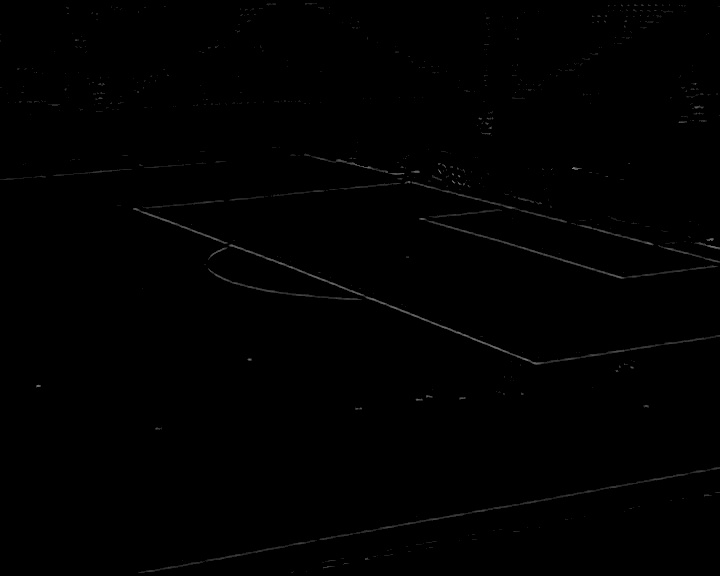
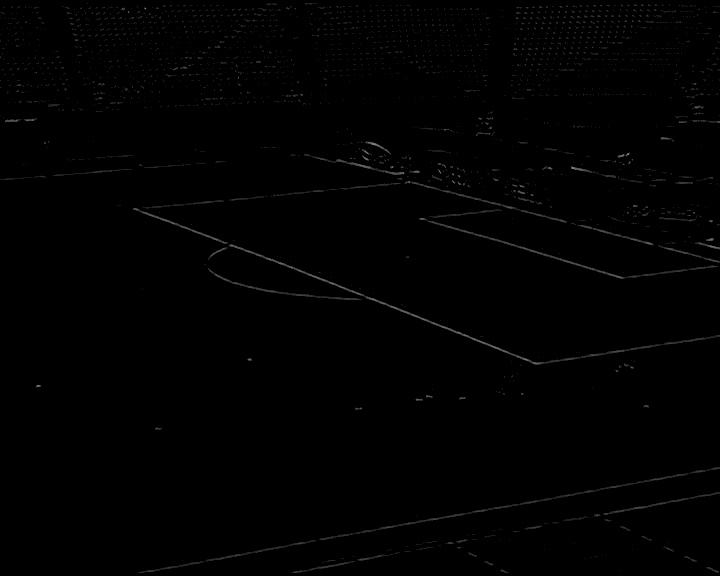
rename images!

diff --git a/src/utils/line_filter.py b/src/utils/line_filter.py
@@ -71,7 +71,6 @@ def filter_for(blue_image, keyer, width=3, orientation='h'):
 				temp = min(temp1, temp2)
 				if temp < 20:
 					temp = 0
-				# temp = min(blue_image[i,j] - blue_image[i-i_shift, j-j_shift], blue_image[i,j] - blue_image[i+i_shift, j+j_shift])
 				result[i,j] = temp
 
 	return result

diff --git a/README.md b/README.md
@@ -27,7 +27,7 @@ The filter is designed so that it will ignore regions which are significantly wi
 
 The filter is applied to the **blue** component of the image.
 
-The adjacent pixels must also have a colour in the range expected for grass. For this the author suggests using a hue-based chroma-keyer. The keyer needs to merely indicate areas unlikely to be grass, so that immediately adjacent areas are not considered as possible lines.
+The adjacent pixels must also have a color in the range expected for grass. For this the author suggests using a hue-based chroma-keyer. The keyer needs to merely indicate areas unlikely to be grass, so that immediately adjacent areas are not considered as possible lines.
 
 ### The variant of Hough transform - Spatialised Hough transform
 
@@ -72,8 +72,25 @@ Tests
 * Evaluate the effect of including curved lines as line segments versus completely eliminating them.
 * Evaluate the effect of the spatial Hough transform versus regular Hough transform.
 * The line detection filter used is complicated and time consuming. What is the effect of changing this filter to a simpler filter.
-* Does blue component of the image distinguish well between the green grass and the white line? - Yes it does. Certainly you don't want the green component! Below you see the blue component.
+
+### Blue component
+
+Does blue component of the image distinguish well between the green grass and the white line? - Yes it does. Certainly you don't want the green component! Below you see the blue component.
 ![Blue Component](https://raw.github.com/yassersouri/thomas-calibration/master/docs/f581_4_1_blue.jpg)
+
+### Effect of chroma keyer on line detection output
+
+Below you can see the output of using the chroma keyer on the output of the line detection filter.
+
+**With Chroma Keyer**:
+
+![]()
+
+**Without Chroma Keyer**:
+
+![]()
+
+As you can see, when not using the chroma keyer there are lots of noise in the output of the line detection filter, spatially in area of crowd in the stadium.
 
 Questions
 =========
